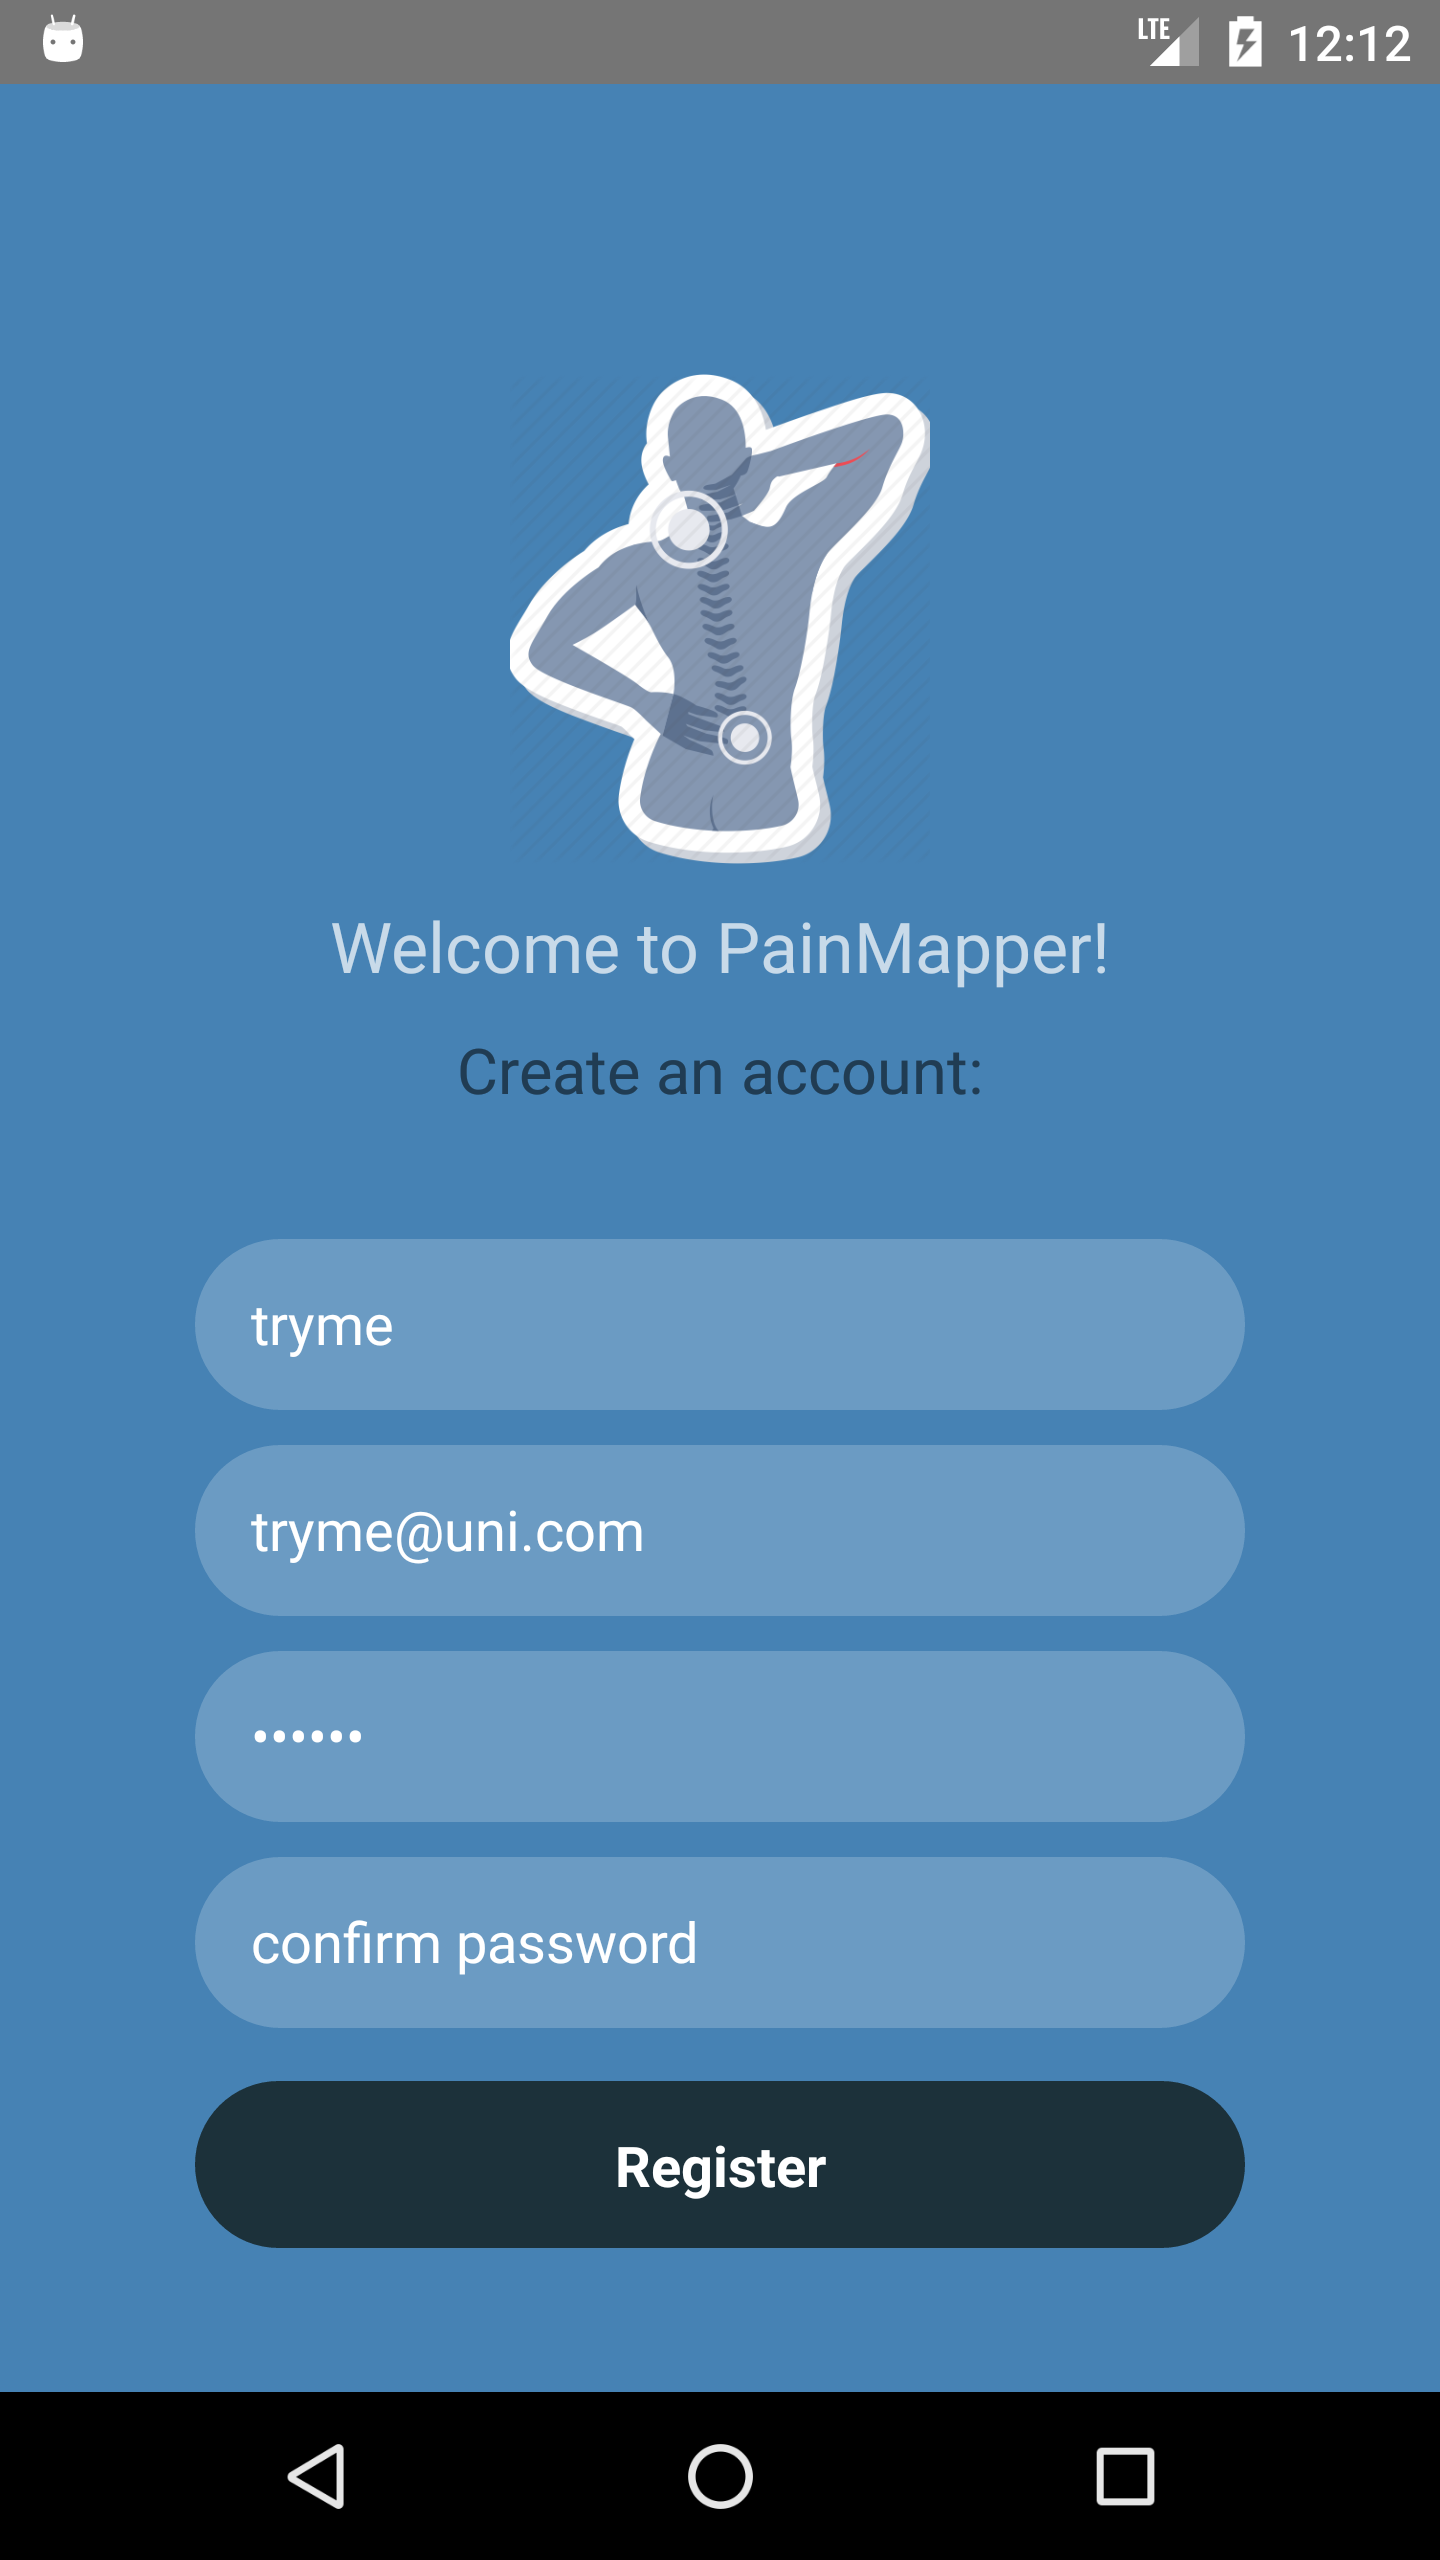
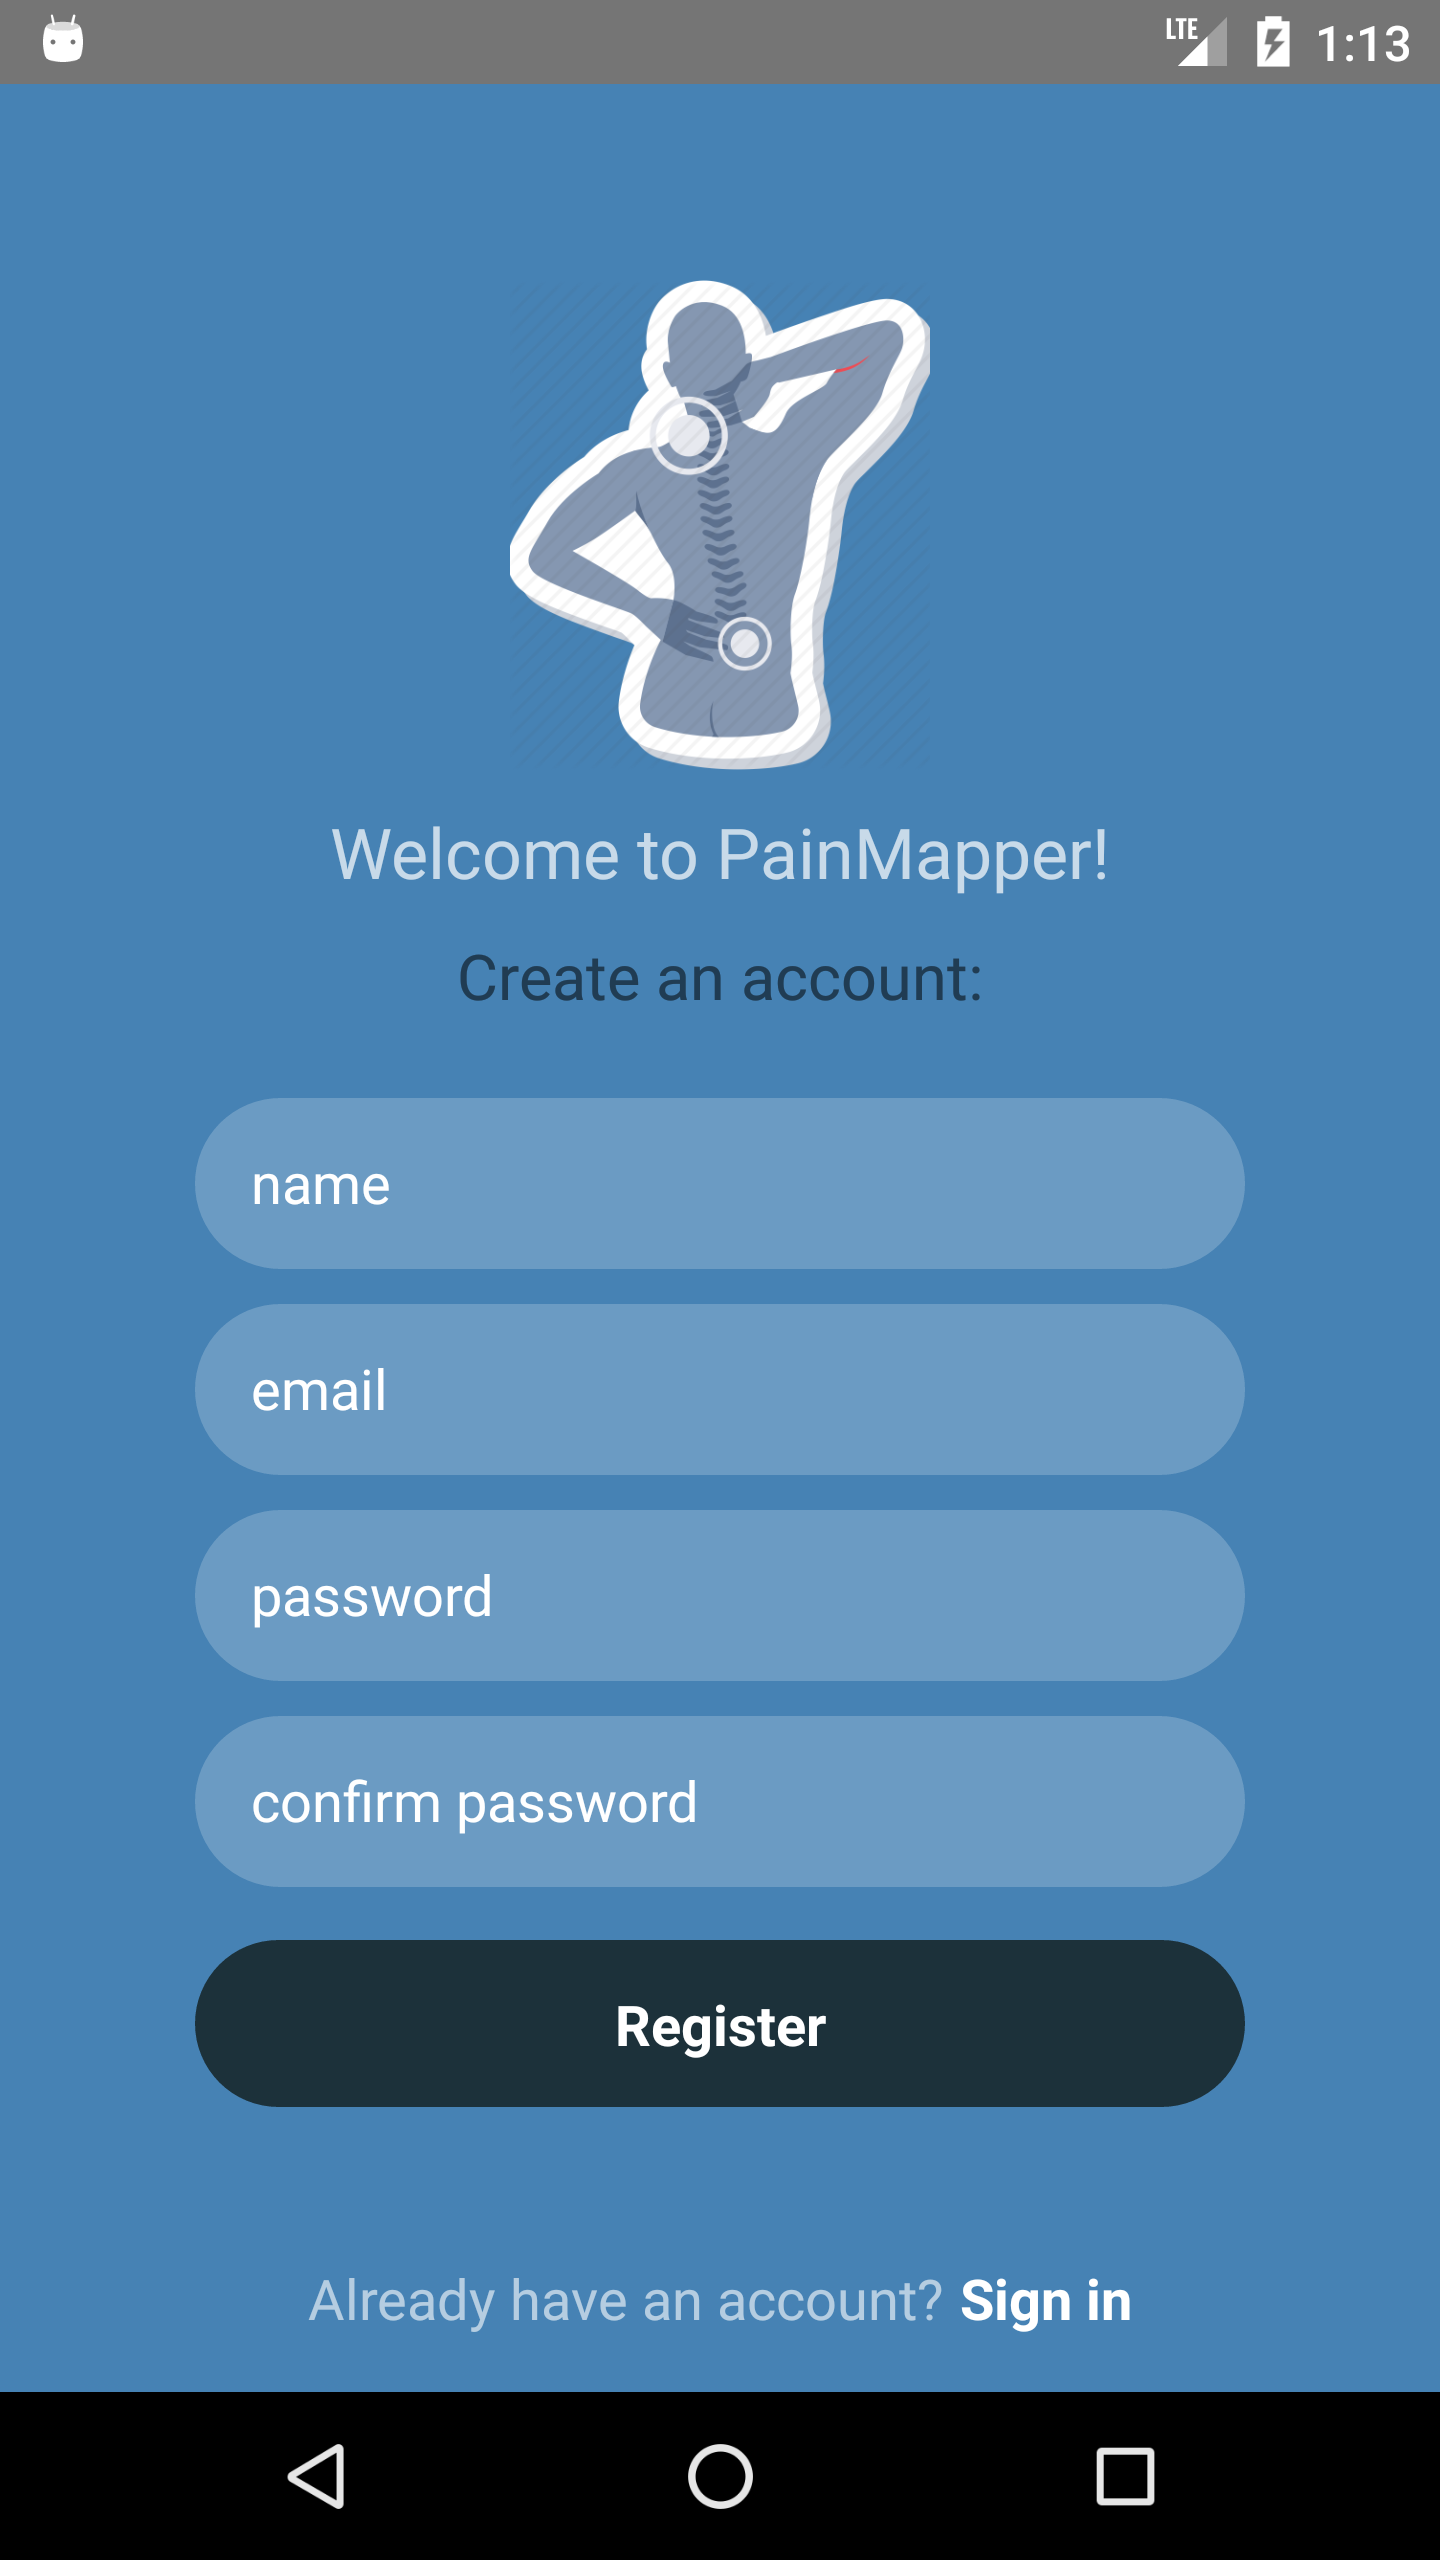
Added missing component in RegisterPage: Already have an account? Sign in

Changed region(s): [[0.125, 0.0938, 0.875, 0.9062], [0.7812, 0.0, 0.9375, 0.0312]]

diff --git a/painmapper/application/src/pages/RegisterPage.js b/painmapper/application/src/pages/RegisterPage.js
@@ -1,20 +1,30 @@
-import React, {Component} from 'react';
-import { StyleSheet, View, Text } from 'react-native';
+import React, { Component } from 'react';
+import { StyleSheet, View, Text, TouchableOpacity } from 'react-native';
 import RegisterForm from '../components/RegisterForm';
 import Logo from '../components/Logo';
 
 export default class LoginPage extends Component {
 
     render() {
-        return(
-            <View style={styles.container}> 
-                    <View> 
-                        <Logo />
+        return (
+            <View style={styles.container}>
+                <View>
+                    <Logo />
                     <Text style={styles.textPrompt}>
-                        Create an account: 
+                        Create an account:
                     </Text>
                     <RegisterForm />
+                    <View style={styles.loginView}>
+                        <Text style={styles.loginText}>
+                            Already have an account?
+                        </Text>
+                        <TouchableOpacity>
+                            <Text style={styles.loginButton}>
+                                Sign in
+                            </Text>
+                        </TouchableOpacity>
                     </View>
+                </View>
             </View>
         );
     }
@@ -22,16 +32,35 @@ export default class LoginPage extends Component {
 
 const styles = StyleSheet.create({
     container: {
-        flexGrow: 1, 
-        backgroundColor: 'steelblue', 
-        alignItems: 'center', 
+        flexGrow: 1,
+        backgroundColor: 'steelblue',
+        alignItems: 'center',
         justifyContent: 'center'
-    }, 
+    },
 
     textPrompt: {
-        textAlign:'center',
-        fontSize: 18, 
+        textAlign: 'center',
+        fontSize: 18,
         fontWeight: '300'
-    } 
+    },
+
+
+    loginView: {
+        alignItems: 'flex-end',
+        justifyContent: 'center',
+        paddingVertical: 16,
+        flexDirection: 'row'
+    },
+
+    loginText: {
+        color: 'rgba(255,255,255,0.6)',
+        fontSize: 16
+    },
+    loginButton: {
+        color: '#ffffff',
+        fontSize: 16,
+        fontWeight: '500',
+        paddingLeft: 5
+    }
 
 })

diff --git a/painmapper/App.js b/painmapper/App.js
@@ -1,12 +1,12 @@
 import React, {Component} from 'react';
 import {Platform, StyleSheet, View, Text} from 'react-native';
-import ForgotPassPage from './application/src/pages/ForgotPassPage'; 
+import RegisterPage from './application/src/pages/RegisterPage'; 
 
 export default class App extends Component {
   render() {
     return (
       <View>
-        <ForgotPassPage />
+        <RegisterPage />
       </View>
     );
   }
